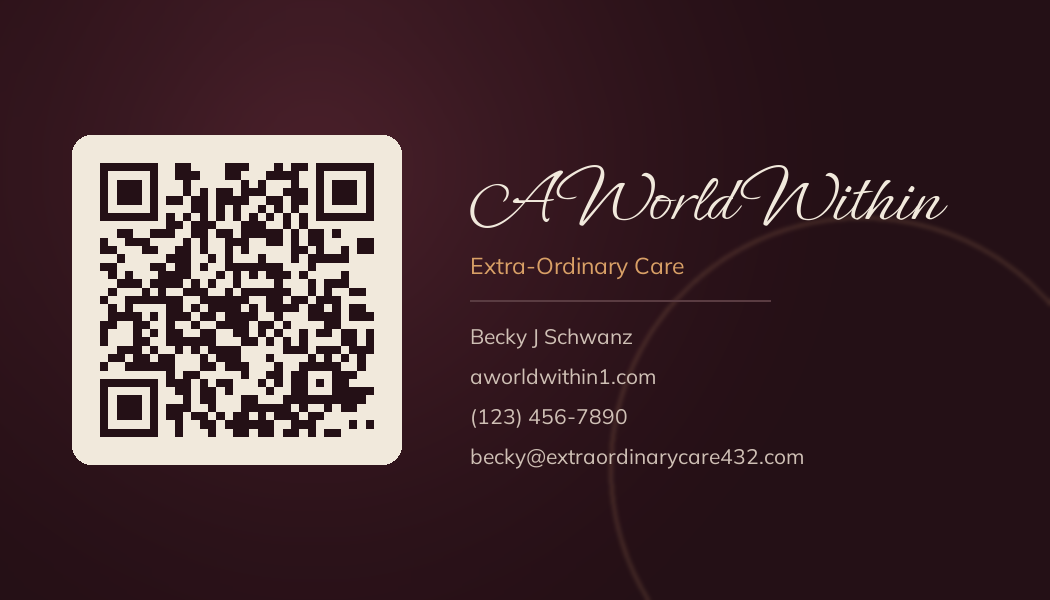
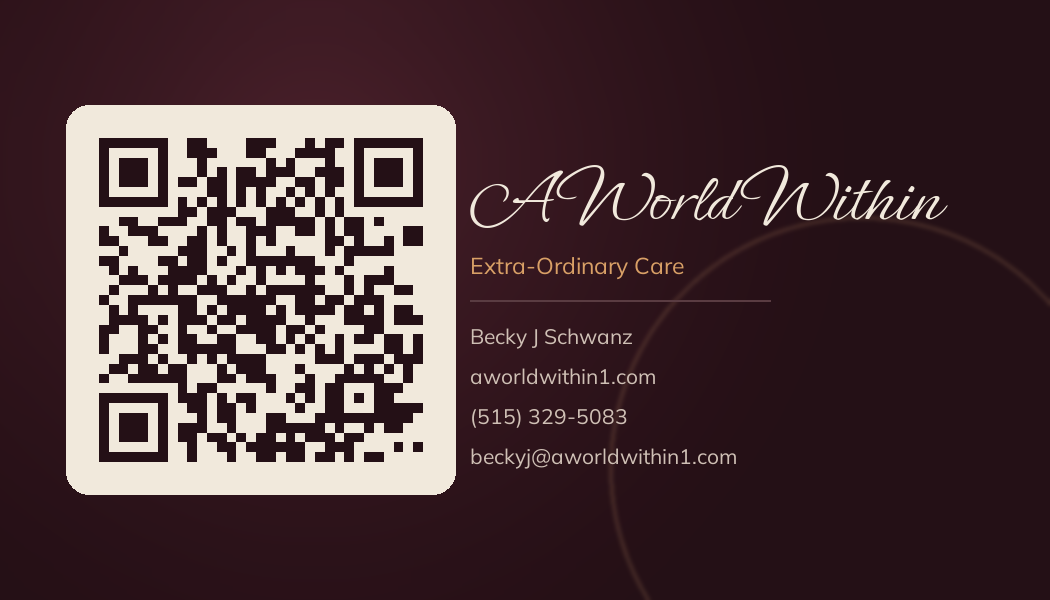
Set Becky's real phone number and new email
phone   1234567890                     -> (515) 329-5083
email   becky@extraordinarycare432.com -> beckyj@aworldwithin1.com

Both live in src/content/site.json only; the contact page, the tel: link,
the mailto:, the structured data and every printed asset derive from there,
so this one edit carries everywhere. The dial link is now tel:+15153295083
and the number is shown as (515) 329-5083 without her having to type it
that way.

Brand assets rebuilt against the new details.

While regenerating, measured what the QR codes can actually do on paper and
found the poster's code only read from about 1.4ft — a wall poster you have
to walk up to is not much of a wall poster. The adaptive sizing added to stop
the artwork clipping had quietly shrunk it. Traded logo height and a line of
wording for code size across the pieces:

  business card   1.1in code, reads to ~11in    (held at arm's length)
  flyer           2.2in code, reads to ~1.8ft
  poster          2.3in code, reads to ~1.9ft   (was 1.4ft)

The script now prints that range on every run, so shrinking a code to make
room for wording can no longer happen unnoticed. Every code was decoded from
the rendered artwork, full size and at 40%, and all four resolve to
https://aworldwithin1.com.

Changed region(s): [[0.061, 0.15, 0.6095, 0.84], [0.4876, 0.75, 0.7619, 0.78]]

diff --git a/scripts/brand_assets.py b/scripts/brand_assets.py
@@ -239,7 +239,7 @@ def og_image():
 
     OUT_WEB.mkdir(parents=True, exist_ok=True)
     img.save(OUT_WEB / "og-image.png", optimize=True)
-    return "public/images/og-image.png", img.size
+    return "public/images/og-image.png", img.size, "shown when the site is shared"
 
 
 def business_card():
@@ -261,8 +261,8 @@ def business_card():
 
     back = backdrop(w, h)
     d = ImageDraw.Draw(back)
-    qr = qr_panel(site["url"], 330)
-    back.paste(qr, (72, (h - qr.height) // 2), qr)
+    qr = qr_panel(site["url"], 390)
+    back.paste(qr, (66, (h - qr.height) // 2), qr)
 
     x = 470
     d.text((x, 150), site["name"], font=script(76), fill=CREAM)
@@ -282,9 +282,11 @@ def business_card():
         y += 40
 
     OUT_PRINT.mkdir(parents=True, exist_ok=True)
+    check_margins(front, "business-card-front.png")
+    check_margins(back, "business-card-back.png")
     front.save(OUT_PRINT / "business-card-front.png", dpi=(300, 300))
     back.save(OUT_PRINT / "business-card-back.png", dpi=(300, 300))
-    return "brand-assets/business-card-{front,back}.png", (w, h)
+    return "brand-assets/business-card-{front,back}.png", (w, h), scan_range(390)
 
 
 def sheet(name, w, h, blurb_lines, logo_h, qr_size):
@@ -363,7 +365,8 @@ def sheet(name, w, h, blurb_lines, logo_h, qr_size):
     check_margins(img, name)
     OUT_PRINT.mkdir(parents=True, exist_ok=True)
     img.save(OUT_PRINT / name, dpi=(300, 300))
-    return f"brand-assets/{name}", (w, h)
+    # qr_size is reported, not assumed: it may have been reduced above to fit.
+    return f"brand-assets/{name}", (w, h), scan_range(qr_size)
 
 
 # Each entry is one paragraph and is wrapped to fit. Do not hand-break these
@@ -382,16 +385,22 @@ POSTER_TEXT = FLYER_TEXT + [
 
 
 def flyer():
-    """5.5 x 8.5in at 300dpi — noticeboard, waiting room, a partner's desk."""
+    """5.5 x 8.5in at 300dpi — noticeboard, waiting room, a partner's desk.
+
+    Read from a foot or two away, so the code is sized for that."""
     return sheet(
-        "flyer-half-page.png", 1650, 2550, FLYER_TEXT, logo_h=520, qr_size=600
+        "flyer-half-page.png", 1650, 2550, FLYER_TEXT, logo_h=470, qr_size=780
     )
 
 
 def poster():
-    """8.5 x 11in at 300dpi — clinic wall or community board."""
+    """8.5 x 11in at 300dpi — clinic wall or community board.
+
+    The logo is smaller here than the page would allow, and the wording is
+    shorter, so the QR can be as large as possible: this is the one piece
+    people scan without walking right up to it."""
     return sheet(
-        "poster-full-page.png", 2550, 3300, POSTER_TEXT, logo_h=760, qr_size=860
+        "poster-full-page.png", 2550, 3300, POSTER_TEXT, logo_h=560, qr_size=1450
     )
 
 
@@ -414,13 +423,30 @@ def social_square():
 
     OUT_PRINT.mkdir(parents=True, exist_ok=True)
     img.save(OUT_PRINT / "social-square.png")
-    return "brand-assets/social-square.png", (w, h)
+    return "brand-assets/social-square.png", (w, h), "screen only, no print size"
+
+
+def scan_range(panel_px):
+    """Roughly how far away a printed code of this size still reads.
+
+    Phone cameras manage about ten times the code's own width. Reported on
+    every run because it is the number that decides whether a piece works in
+    the place it is going: a poster people scan from across a room needs a far
+    bigger code than a card held at arm's length. Shrinking a QR to make room
+    for wording is an easy, invisible mistake — this makes it visible.
+    """
+    code_in = panel_px * (1 - 2 * 0.085) / 300  # panel minus its quiet zone
+    inches = code_in * 10
+    return f"{code_in:.1f}in code, reads to ~" + (
+        f"{inches / 12:.1f} ft" if inches >= 12 else f"{inches:.0f} in"
+    )
 
 
 if __name__ == "__main__":
     print(f"Building from src/content/site.json — {site['url']}\n")
     for build in (og_image, business_card, flyer, poster, social_square):
-        path, size = build()
-        print(f"  {path:44} {size[0]} x {size[1]}")
+        path, size, note = build()
+        print(f"  {path:44} {size[0]:>4} x {size[1]:<4}  {note}")
     print("\nQR codes point at:", site["url"])
+    print(f"Phone: {pretty_phone(site['phone'])}    Email: {site['email']}")
     print("Re-run this after changing the phone, email or web address.")
